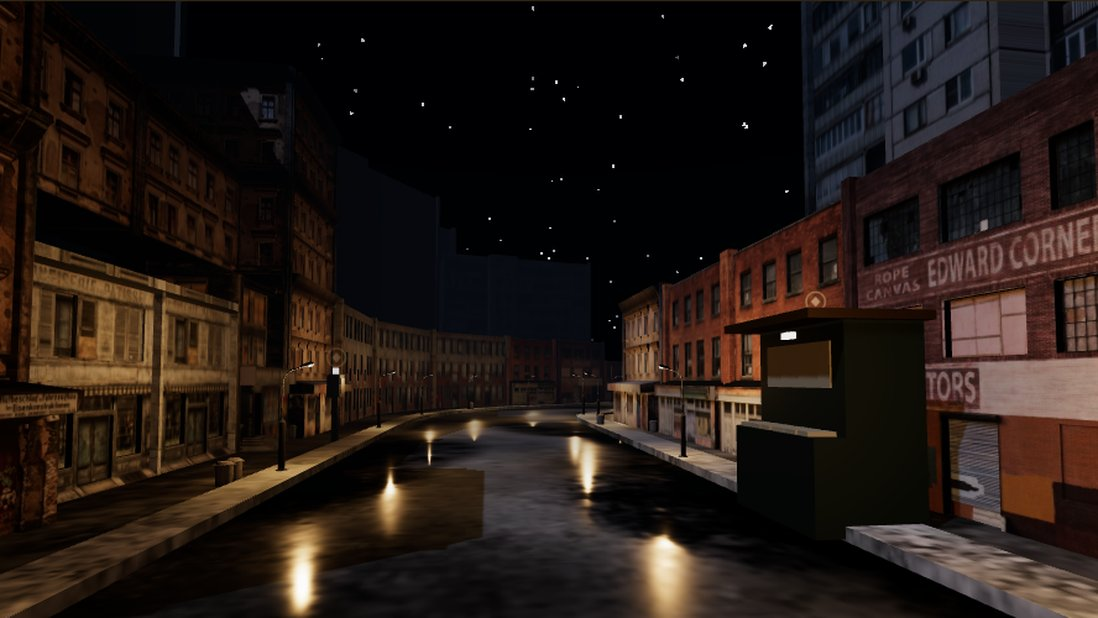
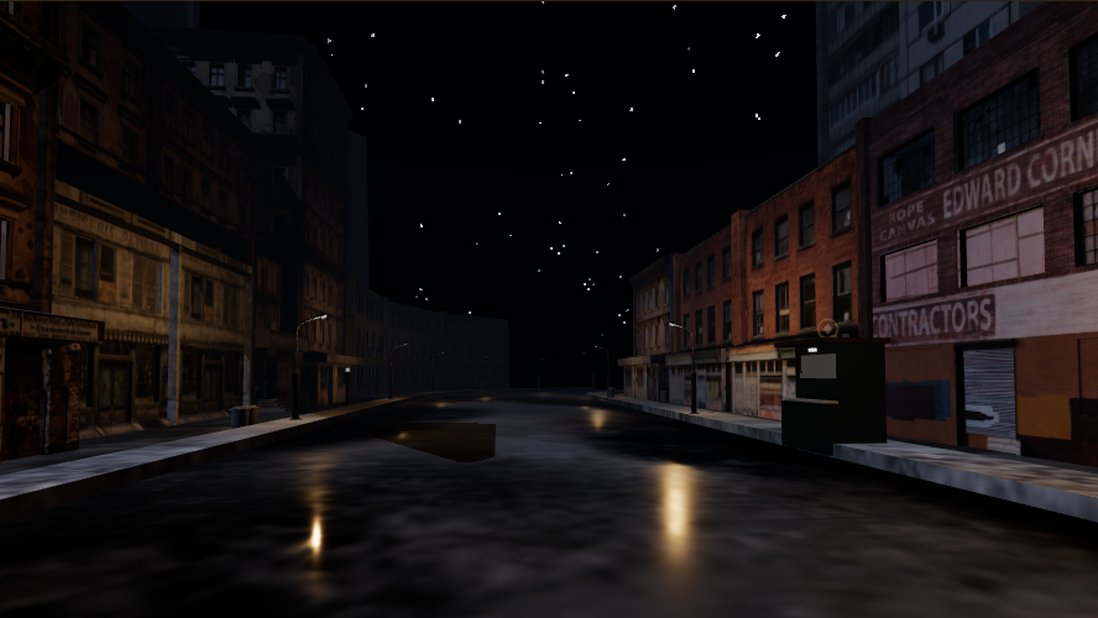
fix: Downtown at true scale — doors above eye level, not at the chest
The street was built at 1.8x, and measured against a metre grid its doors
were only 1.1-1.2 m tall, so investigators towered over them. Rebuilt at 3.3x:
doors about 2.1 m against the 1.6 m eye, storeys 2.3 m, street lamps 3.6 m.
Lamp lights and the gulls' flight are adjusted for the larger street, and the
location's preview image is re-shot.

diff --git a/src/lib/downtown.ts b/src/lib/downtown.ts
@@ -35,11 +35,11 @@ export const DOWNTOWN_LEVEL: WalkthroughLevel = {
   weather: true,
   // Gulls up from the harbour by day, fewer than over the wreck.
   birds: {
-    model: '/props/seagull.glb', times: ['dawn', 'day'], everySec: 150, count: [2, 4], wingspan: 1.4, over: [-4, 6], height: [14, 22],
+    model: '/props/seagull.glb', times: ['dawn', 'day'], everySec: 150, count: [2, 4], wingspan: 1.4, over: [-10, 12], height: [20, 32],
     cries: ['/sounds/gull-1.mp3', '/sounds/gull-2.mp3', '/sounds/gull-3.mp3', '/sounds/gull-4.mp3', '/sounds/gull-5.mp3'],
   },
-  // The street lamps, warm against a cold night.
-  lamps: { color: 0xffc27a, intensity: 9, distance: 13 },
+  // The street lamps (3.6 m posts), warm against a cold night.
+  lamps: { color: 0xffc27a, intensity: 16, distance: 18 },
   atmosphere: {
     background: 0x05070c,
     fogColor: 0x080b12,
